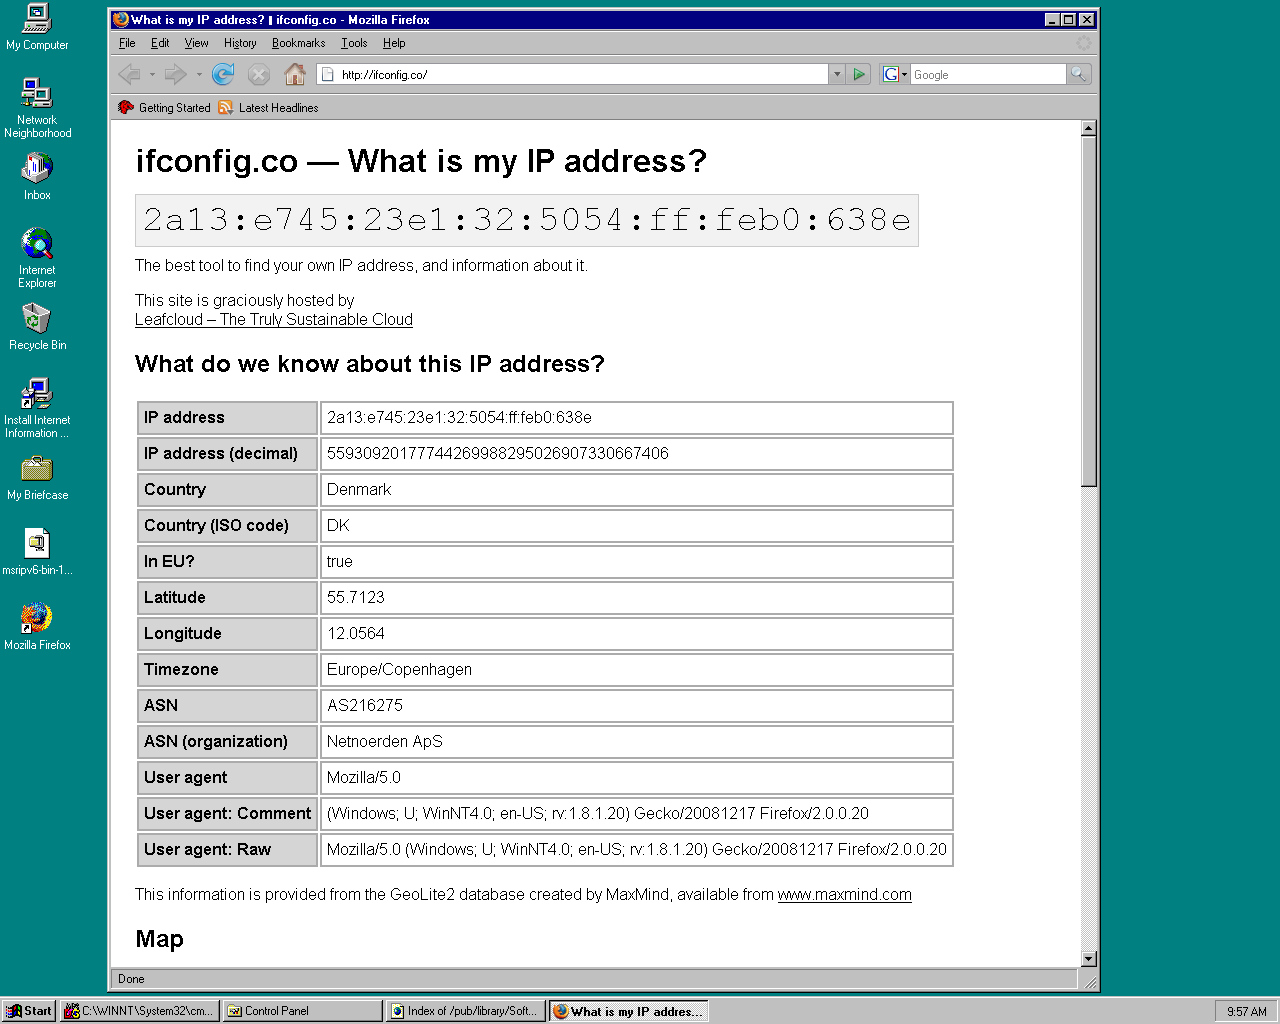
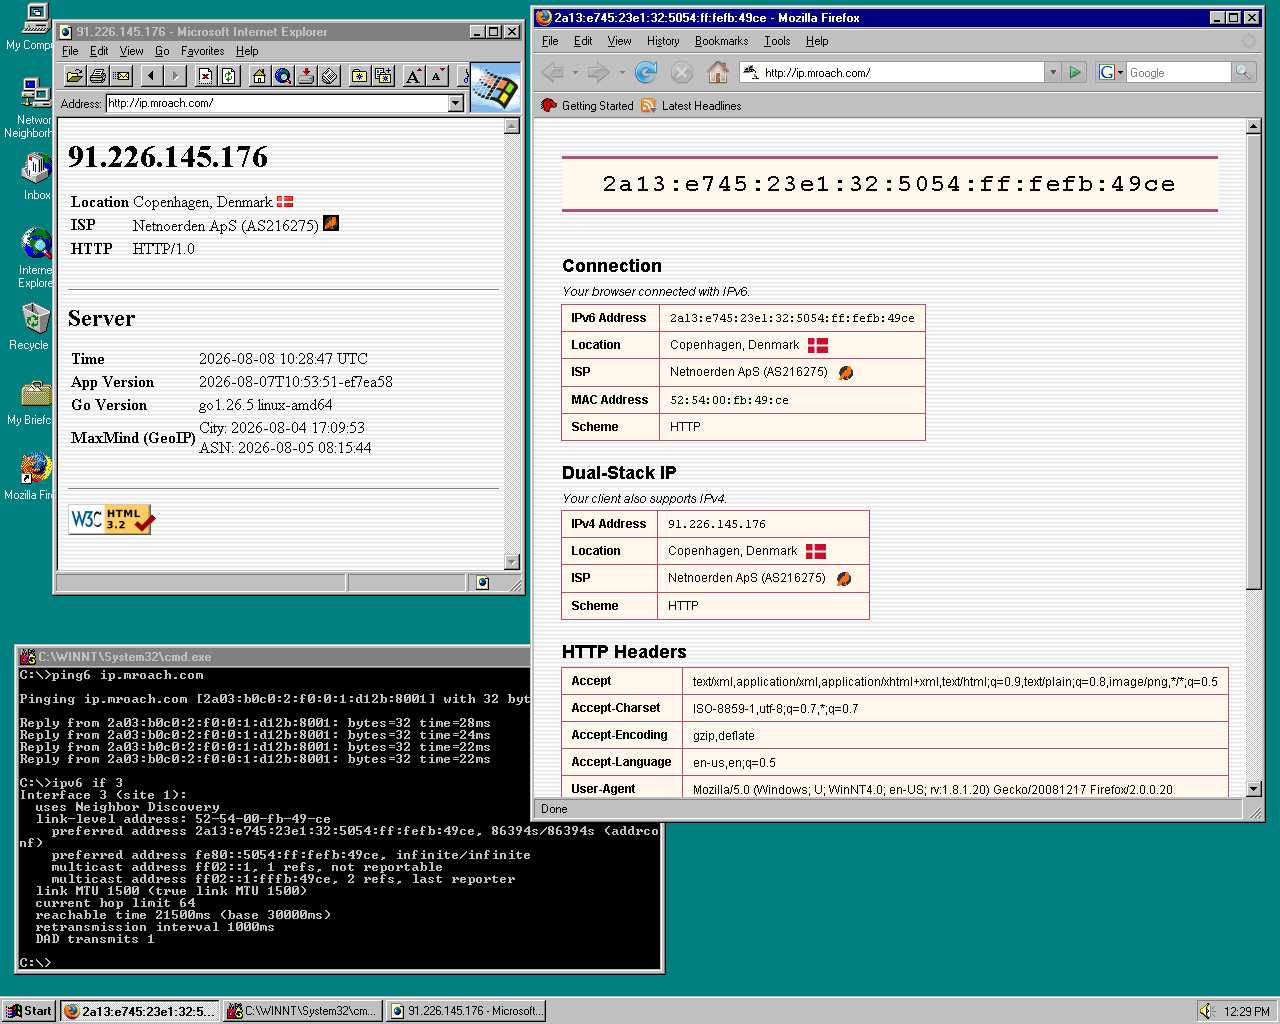
ipv6: updated screenshots and description

diff --git a/content/posts/2026/windows-nt-2000-ipv6/index.md b/content/posts/2026/windows-nt-2000-ipv6/index.md
@@ -179,4 +179,7 @@ Adding it is easy. It's the same procedure as adding a protocol in Windows 2000.
 
 You still have to use the command line app `ipv6` for status and configuration though.
 
-{{< figure src="images/ipv6-xp.png" alt="Screenshot of IPv6 configuration on Windows XP" >}}
+* Internet Explorer 6.0 will default to IPv6 when it's available.
+* Tools like `ping` and `tracert` will also default to IPv6 when available.
+
+{{< figure src="images/ipv6-xp-ie.png" alt="Screenshot of IPv6 configuration on Windows XP" >}}
